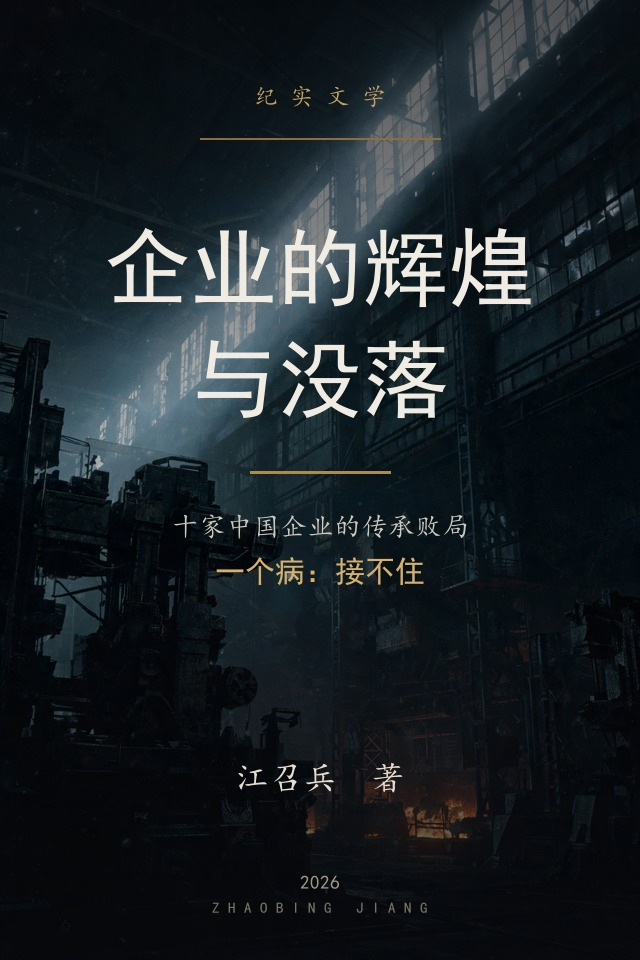
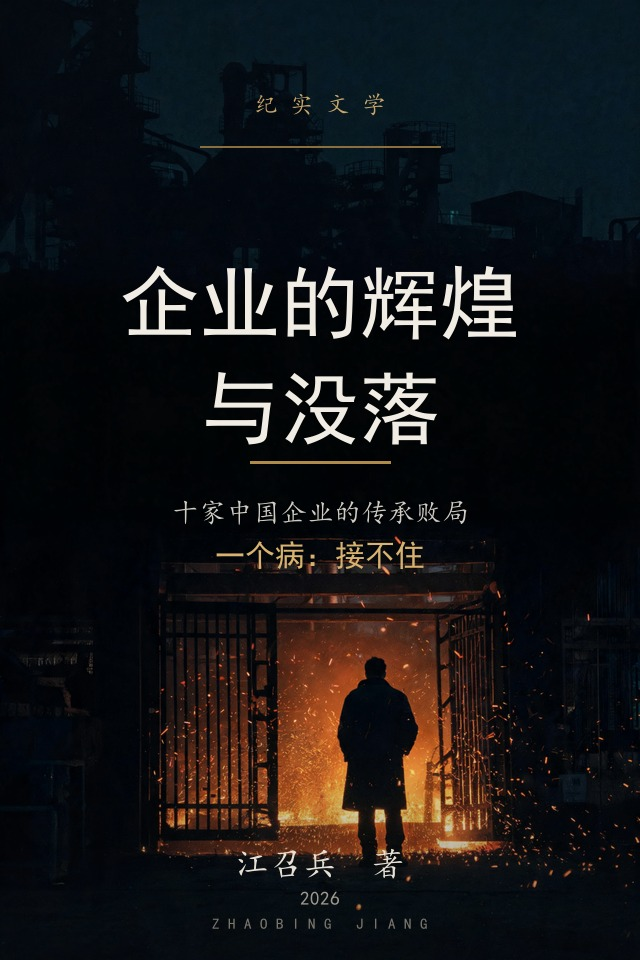
Regenerate documentary cover with Dreamina CLI + PIL: successor at the furnace gate

diff --git a/books/qiye-de-huihuang-yu-moluo/index.html b/books/qiye-de-huihuang-yu-moluo/index.html
@@ -17,7 +17,7 @@
 <meta property="og:url" content="https://ZhaobingJiang.github.io/books/qiye-de-huihuang-yu-moluo/">
 <meta property="og:title" content="企业的辉煌与没落 · 纪实文学">
 <meta property="og:description" content="十家中国民营企业的传承败局，约 21.2 万字。全书免费在线阅读。">
-<meta property="og:image" content="https://ZhaobingJiang.github.io/books/qiye-de-huihuang-yu-moluo/cover.jpg?v=2">
+<meta property="og:image" content="https://ZhaobingJiang.github.io/books/qiye-de-huihuang-yu-moluo/cover.jpg?v=3">
 <meta name="twitter:card" content="summary_large_image">
 <script type="application/ld+json">
 {"@context":"https://schema.org","@graph":[
@@ -90,7 +90,7 @@
 
 <main class="reader" id="top">
   <div class="book-head">
-    <img class="web-cover" src="cover.jpg?v=2" alt="《企业的辉煌与没落》封面：江召兵著，纪实文学" width="640" height="960">
+    <img class="web-cover" src="cover.jpg?v=3" alt="《企业的辉煌与没落》封面：江召兵著，纪实文学" width="640" height="960">
     <h1 class="t">企业的辉煌与没落</h1>
     <div class="s">十家企业，十种死法，一个病：接不住</div>
     <div class="a">江召兵　著</div>
